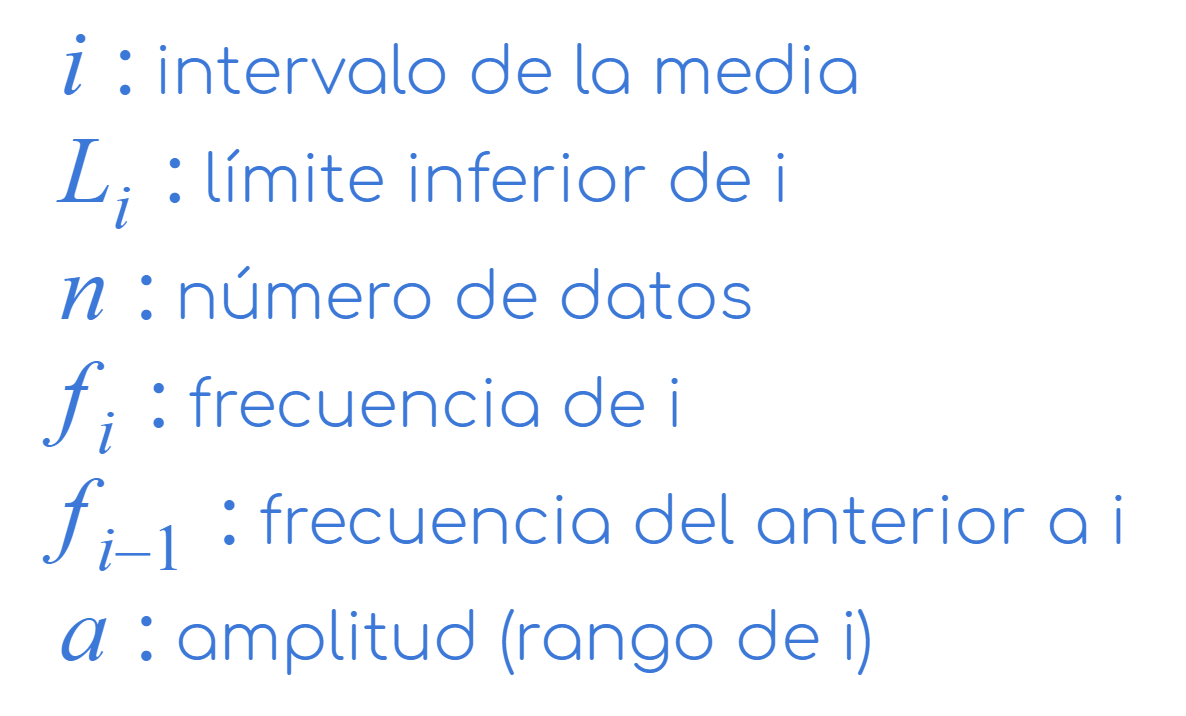
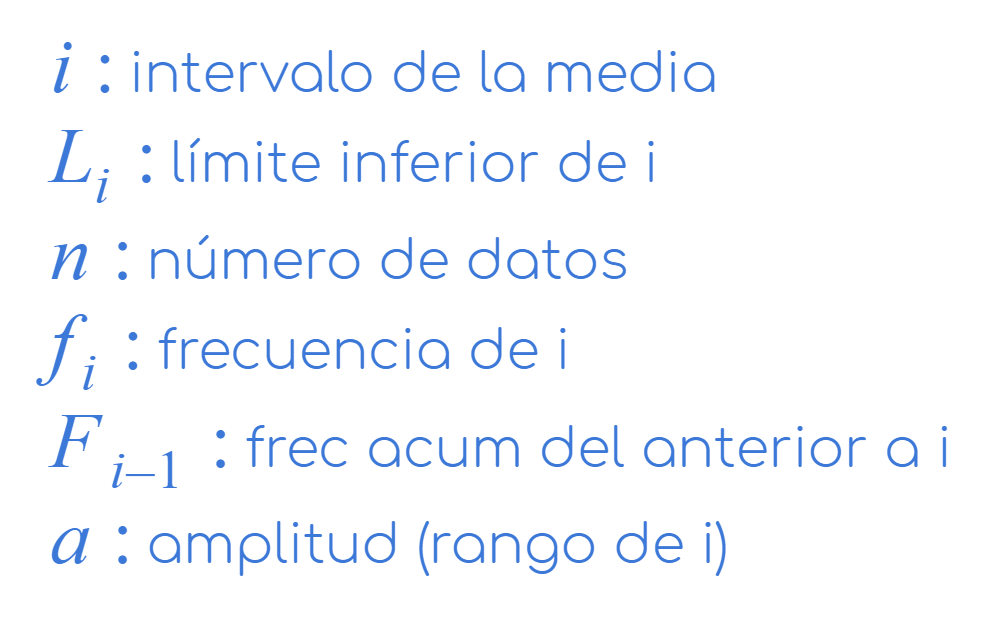
Fixing some formules and adding more

diff --git a/lib/src/pages/new_hp.dart b/lib/src/pages/new_hp.dart
@@ -406,7 +406,7 @@ class _NewHomePageState extends State<NewHomePage> {
                         Param(name: 'Li del intervalo de la Media'): 1.0,
                         Param(name: 'Número de Datos'): 1.0,
                         Param(name: 'f del intervalo de la Media'): 1.0,
-                        Param(name: 'f del intervalo anterior al de la Media'):
+                        Param(name: 'f acum del intervalo anterior al de la Media'):
                             1.0,
                         Param(name: 'Amplitud del intervalo de la Media'): 1.0,
                       },
@@ -512,6 +512,34 @@ class _NewHomePageState extends State<NewHomePage> {
                         if (k > 99 || k < 1) return 0.0;
 
                         return ((n + 1) * k) / 100;
+                      },
+                    ),
+                  ],
+                ],
+                'Percentiles (DA)': [
+                  AssetImage('assets/img/mathformulas/perc.PNG'),
+                  AssetImage('assets/img/mathformulas/pperc.PNG'),
+                  <FormulaButtonArguments>[
+                    FormulaButtonArguments(
+                      pageName: 'Percentil k',
+                      params: {
+                        Param(name: 'Li del intervalo de la Media'): 1.0,
+                        Param(name: 'Número de Datos'): 1.0,
+                        Param(name: 'k'): 1.0,
+                        Param(name: 'f del intervalo de la Media'): 1.0,
+                        Param(name: 'f acum del intervalo anterior al de la Media'):
+                            1.0,
+                        Param(name: 'Amplitud del intervalo de la Media'): 1.0,
+                      },
+                      formula: (Map<Param, double> m) {
+                        double li = m.values.toList()[0];
+                        double n = m.values.toList()[1];
+                        double k = m.values.toList()[2];
+                        double fi = m.values.toList()[3];
+                        double fim1 = m.values.toList()[4];
+                        double a = m.values.toList()[5];
+
+                        return li + ((((n * k) / 100) - fim1) / fi) * a;
                       },
                     ),
                   ],
@@ -658,6 +686,11 @@ class _NewHomePageState extends State<NewHomePage> {
                   null,
                   <FormulaButtonArguments>[],
                 ],
+                'Teorema de Tales': [
+                  AssetImage('assets/img/mathformulas/tales.png'),
+                  null,
+                  <FormulaButtonArguments>[],
+                ],
               },
             ),
           ),
@@ -724,7 +757,7 @@ class _NewHomePageState extends State<NewHomePage> {
                       },
                     ),
                     FormulaButtonArguments(
-                      pageName: 'Trapezoide',
+                      pageName: 'Trapecio',
                       params: {
                         Param(name: 'B'): 1,
                         Param(name: 'b'): 1,
@@ -760,6 +793,31 @@ class _NewHomePageState extends State<NewHomePage> {
                   null,
                   <FormulaButtonArguments>[],
                 ],
+                'Equivalencia por Transversales': [
+                  AssetImage('assets/img/mathformulas/transvers.png'),
+                  null,
+                  <FormulaButtonArguments>[]
+                ],
+                'Equivalencia por Medianas': [
+                  AssetImage('assets/img/mathformulas/medianas.png'),
+                  null,
+                  <FormulaButtonArguments>[]
+                ],
+                'Triangulos de = b y h': [
+                  AssetImage('assets/img/mathformulas/bya.png'),
+                  null,
+                  <FormulaButtonArguments>[]
+                ],
+                'Equivalencia en Cuadriláteros': [
+                  AssetImage('assets/img/mathformulas/equad.png'),
+                  null,
+                  <FormulaButtonArguments>[]
+                ],
+                'Triangulo Interior': [
+                  AssetImage('assets/img/mathformulas/ti.png'),
+                  null,
+                  <FormulaButtonArguments>[]
+                ],
               },
             ),
           ),
@@ -775,6 +833,11 @@ class _NewHomePageState extends State<NewHomePage> {
                   AssetImage('assets/img/mathformulas/clas.png'),
                   null,
                   <FormulaButtonArguments>[],
+                ],
+                'Criterios de Congruencia': [
+                  AssetImage('assets/img/mathformulas/textra.png'),
+                  null,
+                  <FormulaButtonArguments>[]
                 ],
                 'Criterios de Semejanza': [
                   AssetImage('assets/img/mathformulas/sem.png'),
@@ -812,17 +875,17 @@ class _NewHomePageState extends State<NewHomePage> {
                     ),
                   ],
                 ],
-                'Teorema de Tales': [
-                  AssetImage('assets/img/mathformulas/tales.png'),
-                  null,
-                  <FormulaButtonArguments>[],
-                ],
                 'Teorema de Ángulos': [
                   AssetImage('assets/img/mathformulas/ang.png'),
                   null,
                   <FormulaButtonArguments>[],
                 ],
-                'Bisectriz': [
+                'Altura': [
+                  AssetImage('assets/img/mathformulas/hei.png'),
+                  null,
+                  <FormulaButtonArguments>[],
+                ],
+                'Bisectriz Interior': [
                   AssetImage('assets/img/mathformulas/bis.png'),
                   null,
                   <FormulaButtonArguments>[],
@@ -849,6 +912,11 @@ class _NewHomePageState extends State<NewHomePage> {
                 ],
                 'Mediana': [
                   AssetImage('assets/img/mathformulas/medianat.png'),
+                  null,
+                  <FormulaButtonArguments>[],
+                ],
+                'Casos Especiales': [
+                  AssetImage('assets/img/mathformulas/esp.png'),
                   null,
                   <FormulaButtonArguments>[],
                 ],
@@ -894,7 +962,47 @@ class _NewHomePageState extends State<NewHomePage> {
                 'Sector Circular': [
                   AssetImage('assets/img/mathformulas/sector.png'),
                   null,
-                  <FormulaButtonArguments>[]
+                  <FormulaButtonArguments>[
+                    FormulaButtonArguments(
+                      pageName: 'Aréa de Sector',
+                      params: {
+                        Param(name: 'Ángulo'): 1,
+                        Param(name: 'Radio'): 1,
+                      },
+                      formula: (Map<Param, double> m) {
+                        double a = m.values.toList()[0];
+                        double r = m.values.toList()[1];
+
+                        return a * pi * r * r / 360;
+                      },
+                    ),
+                    FormulaButtonArguments(
+                      pageName: 'Perímetro de Sector',
+                      params: {
+                        Param(name: 'Longitud del Arco'): 1,
+                        Param(name: 'Radio'): 1,
+                      },
+                      formula: (Map<Param, double> m) {
+                        double l = m.values.toList()[0];
+                        double r = m.values.toList()[1];
+
+                        return l + 2 * r;
+                      },
+                    ),
+                    FormulaButtonArguments(
+                      pageName: 'Longitud del Arco',
+                      params: {
+                        Param(name: 'Ángulo'): 1,
+                        Param(name: 'Radio'): 1,
+                      },
+                      formula: (Map<Param, double> m) {
+                        double a = m.values.toList()[0];
+                        double r = m.values.toList()[1];
+
+                        return 2 * a * pi * r / 360;
+                      },
+                    ),
+                  ]
                 ],
                 'Ángulo de Centro': [
                   AssetImage('assets/img/mathformulas/dc.png'),
@@ -943,6 +1051,26 @@ class _NewHomePageState extends State<NewHomePage> {
                 ],
                 'Cuadrilátero Inscrito': [
                   AssetImage('assets/img/mathformulas/cuadins.png'),
+                  null,
+                  <FormulaButtonArguments>[]
+                ],
+                'Teorema de las Cuerdas': [
+                  AssetImage('assets/img/mathformulas/cuerdas.png'),
+                  null,
+                  <FormulaButtonArguments>[]
+                ],
+                'Teorema de las Secantes': [
+                  AssetImage('assets/img/mathformulas/sec.png'),
+                  null,
+                  <FormulaButtonArguments>[]
+                ],
+                'Teorema de las Tangente y Secante': [
+                  AssetImage('assets/img/mathformulas/tys.png'),
+                  null,
+                  <FormulaButtonArguments>[]
+                ],
+                'Teoremas Extra': [
+                  AssetImage('assets/img/mathformulas/textra.png'),
                   null,
                   <FormulaButtonArguments>[]
                 ],

diff --git a/lib/src/pages/formula_page.dart b/lib/src/pages/formula_page.dart
@@ -49,7 +49,7 @@ class _FormulaPageState extends State<FormulaPage> {
         ),
         centerTitle: true,
         toolbarHeight: 80.0,
-        backgroundColor: content.triangleColor,
+        backgroundColor: pageColor,
         shape: RoundedRectangleBorder(
           borderRadius: BorderRadius.circular(20.0),
         ),
